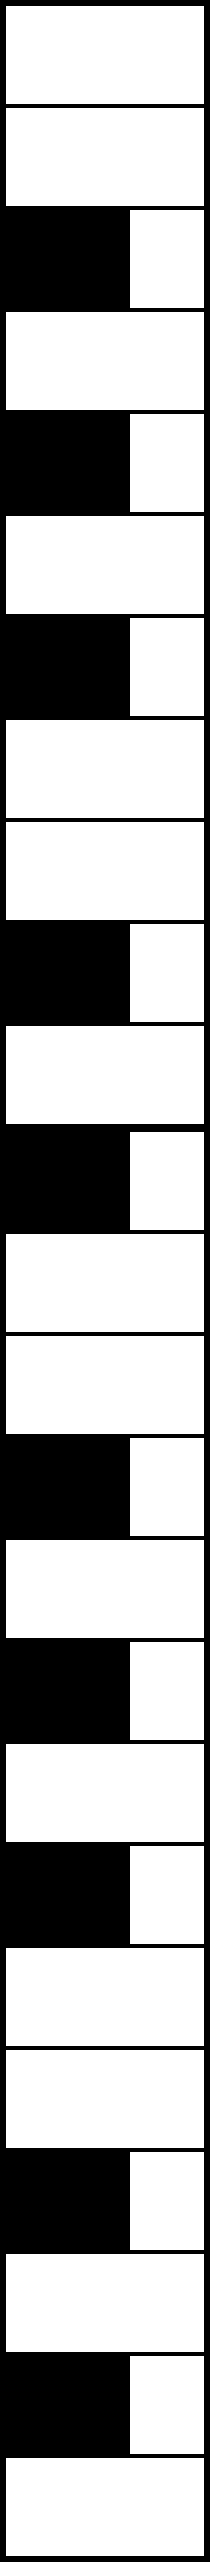
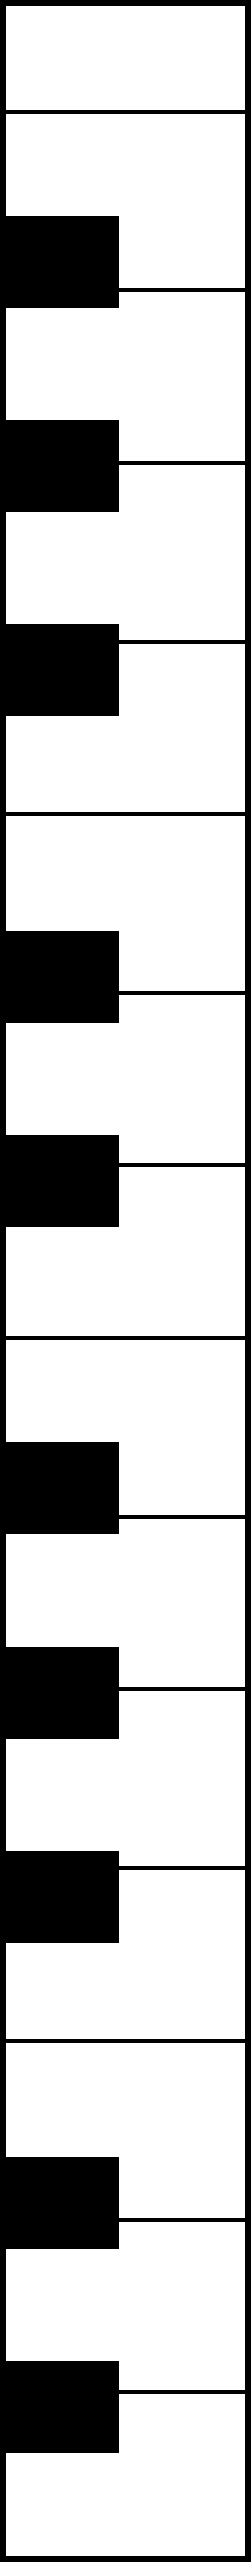
first commit

diff --git a/app/assets/javascripts/jQuery.js b/app/assets/javascripts/jQuery.js
@@ -264,32 +264,32 @@ $(document).ready(function () {
     let chord = 1;
     let scll = 0;
     let measures = [
-        $("#measure1").offset().left - 200,
-        $("#measure2").offset().left - 82,
-        $("#measure3").offset().left - 82,
-        $("#measure4").offset().left - 82,
-        $("#measure5").offset().left - 82,
-        $("#measure6").offset().left - 82,
-        $("#measure7").offset().left - 82,
-        $("#measure8").offset().left - 82,
-        $("#measure9").offset().left - 82,
-        $("#measure10").offset().left - 82,
-        $("#measure11").offset().left - 82,
-        $("#measure12").offset().left - 82,
-        $("#measure13").offset().left - 82,
-        $("#measure14").offset().left - 82, //裏面
-        $("#measure15").offset().left - 82,
-        $("#measure16").offset().left - 82,
-        $("#measure17").offset().left - 82,
-        $("#measure18").offset().left - 82,
-        $("#measure19").offset().left - 82,
-        $("#measure20").offset().left - 82,
-        $("#measure21").offset().left - 82,
-        $("#measure22").offset().left - 82,
-        $("#measure23").offset().left - 82,
-        $("#measure24").offset().left - 82,
-        $("#measure25").offset().left - 82,
-        $("#measure26").offset().left - 82
+        $("#measure1").offset().left - 300,
+        $("#measure2").offset().left - 170,
+        $("#measure3").offset().left - 170,
+        $("#measure4").offset().left - 170,
+        $("#measure5").offset().left - 170,
+        $("#measure6").offset().left - 170,
+        $("#measure7").offset().left - 170,
+        $("#measure8").offset().left - 170,
+        $("#measure9").offset().left - 170,
+        $("#measure10").offset().left - 170,
+        $("#measure11").offset().left - 170,
+        $("#measure12").offset().left - 170,
+        $("#measure13").offset().left - 170,
+        $("#measure14").offset().left - 170, //裏面
+        $("#measure15").offset().left - 170,
+        $("#measure16").offset().left - 170,
+        $("#measure17").offset().left - 170,
+        $("#measure18").offset().left - 170,
+        $("#measure19").offset().left - 170,
+        $("#measure20").offset().left - 170,
+        $("#measure21").offset().left - 170,
+        $("#measure22").offset().left - 170,
+        $("#measure23").offset().left - 170,
+        $("#measure24").offset().left - 170,
+        $("#measure25").offset().left - 170,
+        $("#measure26").offset().left - 170
     ];
     let sorces = [
         "/h-do.wav", "/h-shi.wav", "/h-lasha.wav", "/h-la.wav", "/h-sosha.wav", "/h-so.wav", "/h-fasha.wav", "/h-fa.wav", "/h-mi.wav", "/h-lesha.wav", "/h-le.wav", "/h-dosha.wav", "/l-do.wav", "/l-shi.wav", "/l-lasha.wav", "/l-la.wav", "/l-sosha.wav", "/l-so.wav", "/l-fasha.wav", "/l-fa.wav", "/l-mi.wav", "/l-lesha.wav", "/l-le.wav", "/le-dosha.wav", "/l-do2.wav"

diff --git a/app/assets/stylesheets/home.scss b/app/assets/stylesheets/home.scss
@@ -50,7 +50,7 @@ header li {
 
 .main {
     background-color: #facd00;
-    height: 64.5vh;
+    height: 700px;
     font-size: 45px;
     text-align: center;
     padding: 2% 0;
@@ -109,27 +109,33 @@ header li {
 }
 
 .piano_table {
-    margin-left: 13%;
+    margin-left: 12vw;
     border-collapse: collapse;
     border: 3px solid;
     border-left: 1px solid;
 }
-
+.r3, .r5, .r7, .r10, .r12, .r15, .r17, .r19, .r22, .r24{
+    background-color: gray;
+}
 .piano_table td {
     text-align: center;
     font-size: 0.2em;
     border: 2px solid;
     border-color: dimgrey;
-    height: 6.2vh;
-    width: 6.2vh;
-    min-width: 6.2vh;
+    height: 60px;
+    width: 60px;
+    min-width: 60px;
 }
 #piano {
     position: absolute;
     top: 0%;
-    height: 165.1vh;
+    height: 1606px;
     left: 1vw;
     background-color: white;
+}
+html #piano{
+	filter:progid:DXImageTransform.Microsoft.AlphaImageLoader(src='alpha.png',sizingMethod='scale');
+	background:none;
 }
 
 .piano {
@@ -140,7 +146,7 @@ header li {
 .opsions {
     position: absolute;
     z-index: 300;
-    right: 3%;
+    right: 2%;
     top: 0%;
 }
 .tools {
@@ -150,7 +156,7 @@ header li {
 }
 
 .opsions input {
-    width: 15vw;
+    width: 300px;
     height: 1.2vw;
 }
 
@@ -188,8 +194,8 @@ button.selecting2 {
 }
 button.buttons1 {
     background-color: lightblue;
-    height: 8vh;
-    width: 5vw;
+    height: 95px;
+    width: 95px;
     font-size: 1em;
     margin-left: 28px;
 }
@@ -200,8 +206,8 @@ button.buttons1:hover {
 
 button.buttons2 {
     background-color: orange;
-    height: 9vh;
-    width: 5vw;
+    height: 95px;
+    width: 95px;
 }
 
 button.buttons2:hover {
@@ -220,14 +226,14 @@ button.buttons2:hover {
     margin-left: 10%;
     width: 70vw;
 }
-.piano_box{
-    max-width: 64em;
+.piano_box{ 
+    max-width: 1300px; //表示するマス目を指定
 }
 #select_p span, #select_m span{
     float: left;
 }
 .sidebar h3{
-    font-size: 2vh;
+    font-size: 1em;
 }
 #emp{
     width: 46vw;
